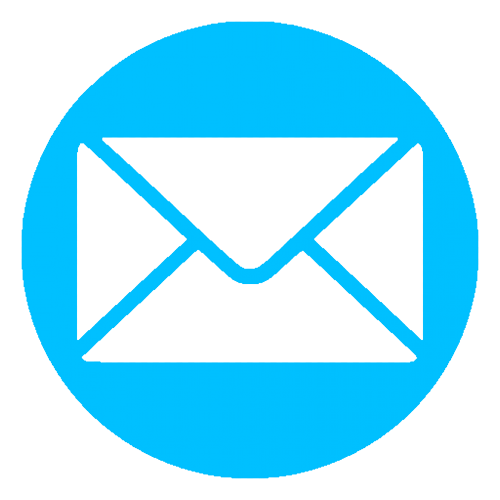
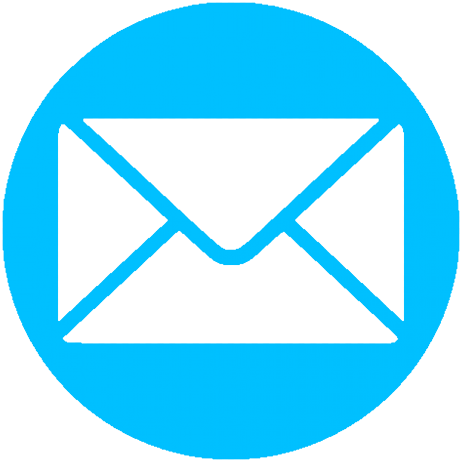
Update

Changed region(s): [[0.0, 0.0, 1.0, 1.0]]

diff --git a/contact.css b/contact.css
@@ -98,19 +98,13 @@ width: 100%;
     padding:10px;
 }
 .in>img{
-width: 6%;
-position: relative;
-left: 0;
-}
-#im{
-    width: 8%;
-    margin-left: 0;
-    left: 6px;
+width: 7%;
 }
 .in>h3{
-    margin-left: 30px;
-    font-size: 23px;
+    margin-left: 15px;
+    font-size: 20px;
     color: white;
+    max-width: 70%;
 }
 #lg>a{
     display: block;
@@ -131,6 +125,14 @@ left: 0;
     display: flex;
     margin-top: 3%;
     justify-content: center;
+}
+#phn{
+    position: relative;
+    left: -5px;
+}
+#em{
+    position: relative;
+    left: -6px;
 }
 #form>h1{
     color: #3470e4;
@@ -158,6 +160,9 @@ left: 0;
     }
 }
 @media all and (min-width:320px) and (max-width:852px){
+    .in{
+        padding-left: 0%;
+    }
     #form>div{
         display: block;
         width: 100%;
@@ -175,8 +180,15 @@ left: 0;
     textarea{
         padding: 0%;
     }
+    #im{
+        position: relative;
+        left: -15px;
+    }
     #scnd{
         width:100%;
         margin-top: 50px;
+    }
+    .in>h3{
+        margin-left: 10px;
     }
 }

diff --git a/contact.html b/contact.html
@@ -59,11 +59,11 @@
                     <h3>Madhyamgram, North 24 Paraganas, West Bengal</h3>
                 </div>
                 <div class="in">
-                    <img src="./Images/email.png" alt="">
+                    <img src="./Images/email.png" alt="" id="em">
                     <h3>karmakar.sudip40@gmail.com</h3>
                 </div>
                 <div class="in">
-                    <img src="./Images/phone.png" alt="">
+                    <img src="./Images/phone.png" alt="" id="phn">
                     <h3>+918582833578</h3>
                 </div>
                 <div id="lg">
